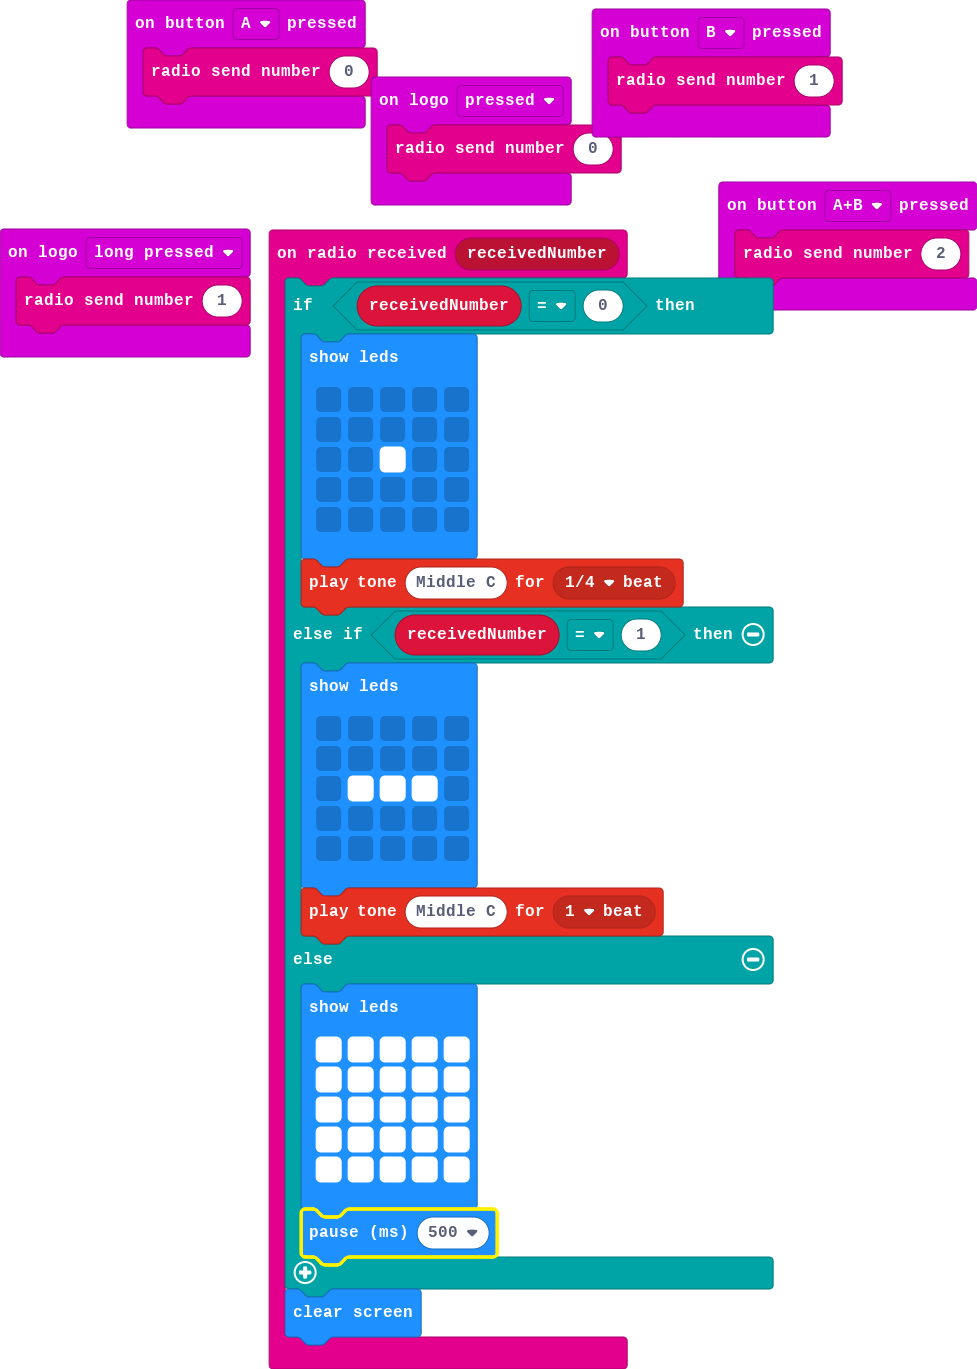
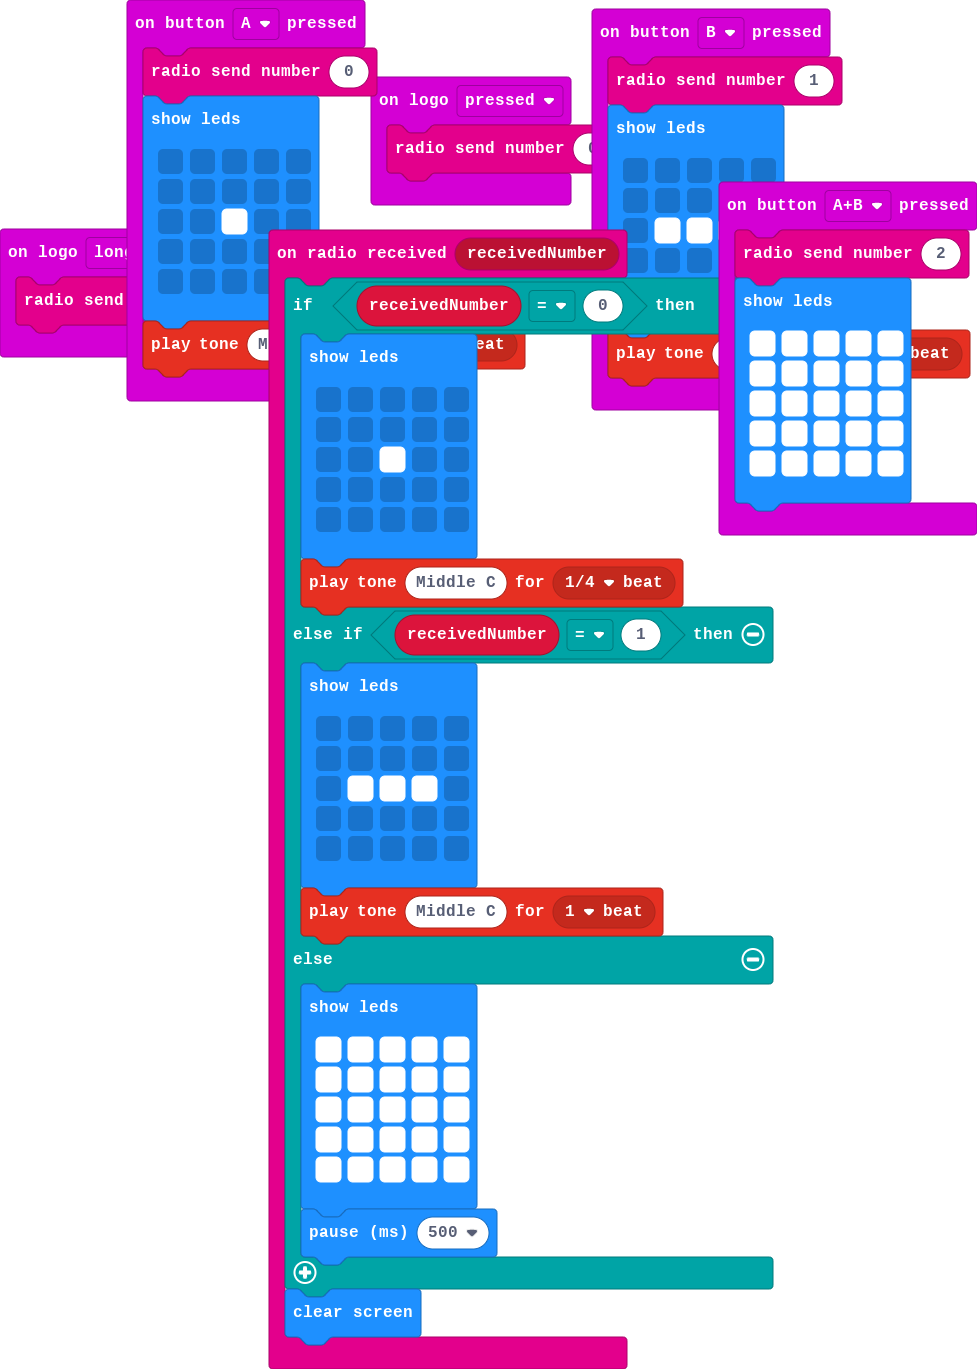
Update pxt.json, main.blocks, main.ts, main.py

diff --git a/main.ts b/main.ts
@@ -1,46 +1,70 @@
-radio.onReceivedNumber(function (receivedNumber) {
+radio.onReceivedNumber(function on_received_number(receivedNumber: number) {
     if (receivedNumber == 0) {
         basic.showLeds(`
             . . . . .
-            . . . . .
-            . . # . .
-            . . . . .
-            . . . . .
-            `)
+                        . . . . .
+                        . . # . .
+                        . . . . .
+                        . . . . .
+        `)
         music.playTone(262, music.beat(BeatFraction.Quarter))
     } else if (receivedNumber == 1) {
         basic.showLeds(`
             . . . . .
-            . . . . .
-            . # # # .
-            . . . . .
-            . . . . .
-            `)
+                        . . . . .
+                        . # # # .
+                        . . . . .
+                        . . . . .
+        `)
         music.playTone(262, music.beat(BeatFraction.Whole))
     } else {
         basic.showLeds(`
             # # # # #
-            # # # # #
-            # # # # #
-            # # # # #
-            # # # # #
-            `)
+                        # # # # #
+                        # # # # #
+                        # # # # #
+                        # # # # #
+        `)
         basic.pause(500)
     }
+    
     basic.clearScreen()
 })
-input.onLogoEvent(TouchButtonEvent.LongPressed, function () {
+input.onLogoEvent(TouchButtonEvent.LongPressed, function on_logo_long_pressed() {
     radio.sendNumber(1)
 })
-input.onButtonPressed(Button.A, function () {
+input.onButtonPressed(Button.A, function on_button_pressed_a() {
     radio.sendNumber(0)
+    basic.showLeds(`
+        . . . . .
+                . . . . .
+                . . # . .
+                . . . . .
+                . . . . .
+    `)
+    music.playTone(262, music.beat(BeatFraction.Quarter))
 })
-input.onButtonPressed(Button.AB, function () {
+input.onButtonPressed(Button.AB, function on_button_pressed_ab() {
     radio.sendNumber(2)
+    basic.showLeds(`
+        # # # # #
+                # # # # #
+                # # # # #
+                # # # # #
+                # # # # #
+    `)
 })
-input.onButtonPressed(Button.B, function () {
+input.onButtonPressed(Button.B, function on_button_pressed_b() {
     radio.sendNumber(1)
+    basic.showLeds(`
+        . . . . .
+                . . . . .
+                . # # # .
+                . . . . .
+                . . . . .
+    `)
+    music.playTone(262, music.beat(BeatFraction.Whole))
 })
-input.onLogoEvent(TouchButtonEvent.Pressed, function () {
+input.onLogoEvent(TouchButtonEvent.Pressed, function on_logo_pressed() {
     radio.sendNumber(0)
 })

diff --git a/main.py b/main.py
@@ -8,7 +8,7 @@ def on_received_number(receivedNumber):
                         . . . . .
         """)
         music.play_tone(262, music.beat(BeatFraction.QUARTER))
-    else:
+    elif receivedNumber == 1:
         basic.show_leds("""
             . . . . .
                         . . . . .
@@ -17,6 +17,15 @@ def on_received_number(receivedNumber):
                         . . . . .
         """)
         music.play_tone(262, music.beat(BeatFraction.WHOLE))
+    else:
+        basic.show_leds("""
+            # # # # #
+                        # # # # #
+                        # # # # #
+                        # # # # #
+                        # # # # #
+        """)
+        basic.pause(500)
     basic.clear_screen()
 radio.on_received_number(on_received_number)
 
@@ -26,10 +35,37 @@ input.on_logo_event(TouchButtonEvent.LONG_PRESSED, on_logo_long_pressed)
 
 def on_button_pressed_a():
     radio.send_number(0)
+    basic.show_leds("""
+        . . . . .
+                . . . . .
+                . . # . .
+                . . . . .
+                . . . . .
+    """)
+    music.play_tone(262, music.beat(BeatFraction.QUARTER))
 input.on_button_pressed(Button.A, on_button_pressed_a)
+
+def on_button_pressed_ab():
+    radio.send_number(2)
+    basic.show_leds("""
+        # # # # #
+                # # # # #
+                # # # # #
+                # # # # #
+                # # # # #
+    """)
+input.on_button_pressed(Button.AB, on_button_pressed_ab)
 
 def on_button_pressed_b():
     radio.send_number(1)
+    basic.show_leds("""
+        . . . . .
+                . . . . .
+                . # # # .
+                . . . . .
+                . . . . .
+    """)
+    music.play_tone(262, music.beat(BeatFraction.WHOLE))
 input.on_button_pressed(Button.B, on_button_pressed_b)
 
 def on_logo_pressed():
